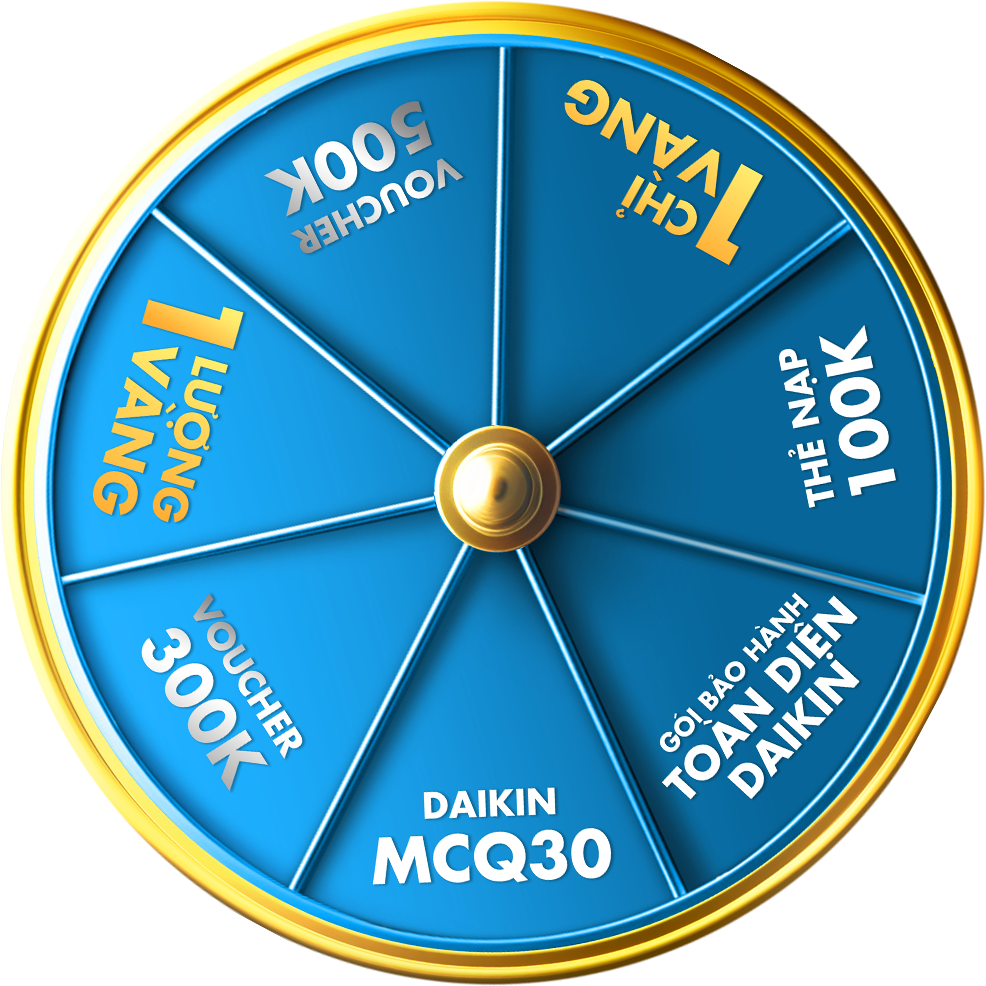
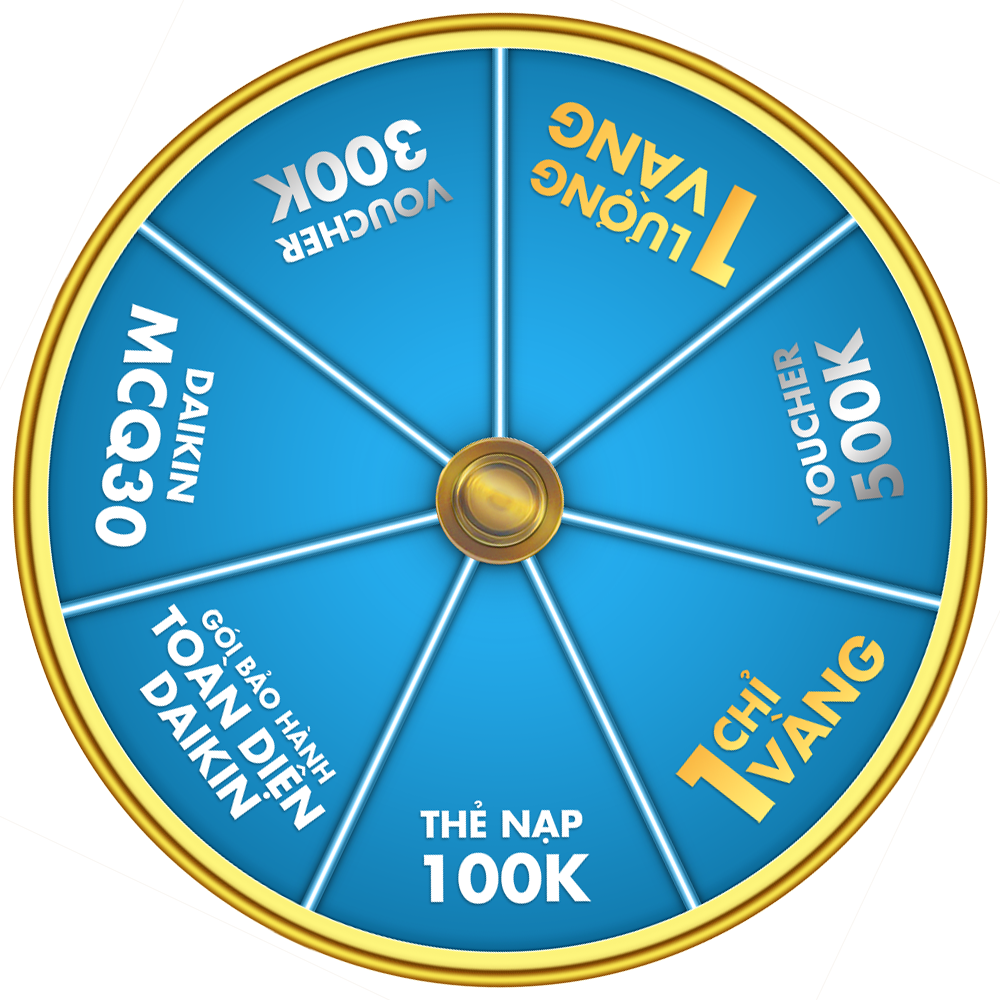
update vongquay

diff --git a/scripts/main.js b/scripts/main.js
@@ -1,76 +1,187 @@
-jQuery(document).ready(function ($) {
- 
-  var App = App || {};
-
-  //---MAIN----
-  $(function () {
-      App.Site.gettoggle();
-      App.Site.semanticUI();
-      App.Site.fancybox();
-  });
-
-  //--All site
-    App.Site = function(){
-
-        var gettoggle = function(){
-            $(".page-header .toggle-menu").click(function(){
-                $(".page-header .main-menu").addClass("active");
-            });
-            $(".page-header .md-button").click(function(){
-                $(".page-header .main-menu").removeClass("active");
-            });
-            $(".page-header .toggle-menu").click(function(){
-                $(".bg-body").addClass("active-bg");
-            });
-            $(".page-header .md-button").click(function(){
-                 $(".bg-body").removeClass("active-bg");
-            });
-        }
+var App = App || {};
 
 
 
+//---MAIN----
+$(function () {
+  App.Site.gettoggle();
+  App.Site.semanticUI();
+  App.Site.fancybox();
+  App.Site.attachSpinEvent();
 
-        var semanticUI = function(){
-            $('.ui.dropdown')
-              .dropdown()
-            ;
-            new WOW().init();
-            $('.ui.checkbox').checkbox();
-            $('#search-select')
-              .dropdown()
-            ;
-        }
-        var fancybox = function(){
-            $("#md-wheel-1").fancybox().trigger('click');
-            $("#md-wheel-2").fancybox().trigger('click');
-            $("#md-wheel-3").fancybox().trigger('click');
-            $("#md-wheel-4").fancybox().trigger('click');
-            $("#md-wheel-5").fancybox().trigger('click');
-            $("#md-wheel-6").fancybox().trigger('click');
-            $("#md-wheel-7").fancybox().trigger('click');
-            $("#md-wheel-8").fancybox().trigger('click');
-            $("#md-wheel-9").fancybox().trigger('click');
-            $("#md-wheel-10").fancybox().trigger('click');
-            $("#md-wheel-11").fancybox().trigger('click');
-            $("#md-wheel-12").fancybox().trigger('click');
-            $("#md-wheel-13").fancybox().trigger('click');
-            $("#md-wheel-14").fancybox().trigger('click');
-        }
+});
 
-        return{
-            gettoggle:gettoggle,
-            semanticUI:semanticUI,
-            fancybox:fancybox,
-        };
+//--All site
+App.Site = function () {
 
-    }(); 
+  const wheel = document.querySelector('.img-wheel');
+  const spinButton = document.querySelector('.img-quay');
+  let isSpinning = false;
+  let currentAngle = 0;
+  let rafId;
+
+  // Function to start the spin
+  function startSpinning() {
+    // Đặt lại vị trí của vòng quay
+    wheel.style.position = 'absolute';
+
+    wheel.style.left = '4.5%';
+    wheel.style.transform = `translate(-50%, -50%) rotate(-30deg)`;
+    wheel.style.transformOrigin = 'center center';
+
+    // Bắt đầu quay
+    isSpinning = true;
+    spinSpeed = 0.1; // Tốc độ quay ban đầu, có thể điều chỉnh
+    spinStartTime = Date.now();
+    rafId = requestAnimationFrame(spin);
+  }
+
+  // Spin the wheel
+  function spin() {
+    if (!isSpinning) {
+      return;
+    }
+
+    const currentTime = Date.now();
+    const elapsedTime = (currentTime - spinStartTime) / 1000;
+
+    // Tăng tốc độ quay dựa trên thời gian đã trôi qua, bạn có thể điều chỉnh các số này
+    if (spinSpeed < 7) { // Tăng tốc độ tối đa nếu cần
+      spinSpeed += elapsedTime * 0.1; // Tăng tốc nhanh hơn
+    } else {
+      spinSpeed = 7; // Tốc độ tối đa lớn hơn
+    }
+
+    // Cập nhật góc hiện tại của bánh xe
+    currentAngle += spinSpeed;
+    currentAngle %= 360; // Giữ góc nằm trong phạm vi 0-359
+    wheel.style.transform = `rotate(${currentAngle}deg)`;
+
+    // Tiếp tục quay
+    rafId = requestAnimationFrame(spin);
+  }
+
+  // Function to stop the spin
+  function stop(segment) {
+    isSpinning = false;
+    cancelAnimationFrame(rafId); // Hủy vòng lặp hiện tại nếu có
+
+    const segmentAngle = 360 / 6; // Góc của mỗi phân đoạn
+    // Tính góc bắt đầu của phân đoạn mà ta muốn dừng
+    let segmentStart = (segment - 1) * segmentAngle - 30;
+    // Giả sử ta muốn kim dừng trong khoảng 1/3 giữa của mỗi phân đoạn để tránh việc dừng ở ranh giới
+    let safeZoneStart = segmentStart + segmentAngle / 3;
+    let safeZoneEnd = segmentStart + segmentAngle * 2 / 3;
+    // Chọn một điểm dừng ngẫu nhiên trong 'khoảng an toàn'
+    let stopAngleWithinSafeZone = Math.random() * (safeZoneEnd - safeZoneStart) + safeZoneStart;
+
+    // Tính toán góc cuối cùng để dừng
+    let finalAngle = currentAngle % 360;
+    let additionalRotation = stopAngleWithinSafeZone - finalAngle;
+
+    if (additionalRotation < 0) {
+      additionalRotation += 360;
+    }
+    // Điều chỉnh để không dừng ở giữa hai phần thưởng
+    finalAngle = currentAngle + additionalRotation;
+    // Thêm ít nhất 5 vòng để tạo hiệu ứng quay mượt
+    finalAngle += 360 * 5;
+
+    // Tiến hành giảm tốc
+    const duration = 5000; // Thời gian giảm tốc
+    const start = Date.now();
+
+    (function decelerate() {
+      const now = Date.now();
+      const elapsed = now - start;
+      const fraction = elapsed / duration;
+
+      if (fraction < 1) {
+        const easeOutFraction = 1 - Math.pow(1 - fraction, 3);
+        const angle = currentAngle + (finalAngle - currentAngle) * easeOutFraction;
+        wheel.style.transform = `rotate(${angle}deg)`;
+        rafId = requestAnimationFrame(decelerate);
+      } else {
+        // Dừng vòng quay và căn chỉnh lại góc cuối cùng
+        wheel.style.transform = `rotate(${finalAngle % 360}deg)`;
+        currentAngle = finalAngle % 360; // Cập nhật góc hiện tại sau khi dừng để giữ trong phạm vi 0-359 độ
+        cancelAnimationFrame(rafId);
+      }
+    })();
+  }
+
+  // Event listener for the spin button
+  function attachSpinEvent() {
+    spinButton.addEventListener('click', function () {
+      if (!isSpinning) {
+        startSpinning();
+      }
+    });
+  }
+
+
+  var gettoggle = function () {
+    $(".page-header .toggle-menu").click(function () {
+      $(".page-header .main-menu").addClass("active");
+    });
+    $(".page-header .md-button").click(function () {
+      $(".page-header .main-menu").removeClass("active");
+    });
+    $(".page-header .toggle-menu").click(function () {
+      $(".bg-body").addClass("active-bg");
+    });
+    $(".page-header .md-button").click(function () {
+      $(".bg-body").removeClass("active-bg");
+    });
+  }
+
+
+
+
+  var semanticUI = function () {
+    $('.ui.dropdown')
+      .dropdown()
+      ;
+    new WOW().init();
+    $('.ui.checkbox').checkbox();
+    $('#search-select')
+      .dropdown()
+      ;
+  }
+  var fancybox = function () {
+    $("#md-wheel-1").fancybox().trigger('click');
+    $("#md-wheel-2").fancybox().trigger('click');
+    $("#md-wheel-3").fancybox().trigger('click');
+    $("#md-wheel-4").fancybox().trigger('click');
+    $("#md-wheel-5").fancybox().trigger('click');
+    $("#md-wheel-6").fancybox().trigger('click');
+    $("#md-wheel-7").fancybox().trigger('click');
+    $("#md-wheel-8").fancybox().trigger('click');
+    $("#md-wheel-9").fancybox().trigger('click');
+    $("#md-wheel-10").fancybox().trigger('click');
+    $("#md-wheel-11").fancybox().trigger('click');
+    $("#md-wheel-12").fancybox().trigger('click');
+    $("#md-wheel-13").fancybox().trigger('click');
+    $("#md-wheel-14").fancybox().trigger('click');
+  }
+
+
+
+  return {
+    gettoggle: gettoggle,
+    semanticUI: semanticUI,
+    fancybox: fancybox,
+    attachSpinEvent: attachSpinEvent,
+    stop: stop,
+
+  };
+
+}();
 
   //--End All site
 
 
-    
-   
-});    
+
 
 
 

diff --git a/vong-quay-02.html b/vong-quay-02.html
@@ -49,6 +49,7 @@
         <img src="./images/img-wheel-2.png" alt="" class="img-wheel-2">
         <img src="./images/ico-arrow.png" alt="" class="img-arrow">
         <img src="./images/ico-quay.png" alt="" class="img-quay">
+        <button onclick="App.Site.stop(7)" class="stop-wheel">stop</button>
         <div class="md-wheel-6" id="md-wheel-6">
             <img src="./images/img-popup-6.png" alt="" class="img-popup-6">
             <a href="#" class="btn-cl">xác thực thông tin</a>

diff --git a/vong-quay.html b/vong-quay.html
@@ -47,6 +47,7 @@
         <p class="md-text">Bạn có <span>1</span> lượt quay</p>
         <img src="./images/img-wheel.png" alt="" class="img-wheel">
         <img src="./images/img-wheel-2.png" alt="" class="img-wheel-2">
+        <button onclick="App.Site.stop(5)" class="stop-wheel">stop</button>
         <img src="./images/ico-arrow.png" alt="" class="img-arrow">
         <img src="./images/ico-quay.png" alt="" class="img-quay">
         <div class="md-wheel-1" id="md-wheel-1">

diff --git a/css/style.css b/css/style.css
@@ -551,8 +551,8 @@ p.error-2{
 }
 .page-vongquay .img-wheel{
   position: absolute;
-  left: 50%;
-  transform: translateX(-50%);
+  left: 4.5%;
+  transform: rotate(0deg);
   top: 34.5%;
   width: 91%;
 }
@@ -1344,6 +1344,13 @@ p.error-2{
   width: auto;
   text-decoration: underline;
   margin: 0px;
+}
+.stop-wheel{
+  position: absolute;
+  left: 50%;
+  transform: translateX(-50%);
+  bottom: 2%;
+  width: 30%;
 }
 
 @media screen and (min-width: 768px){
